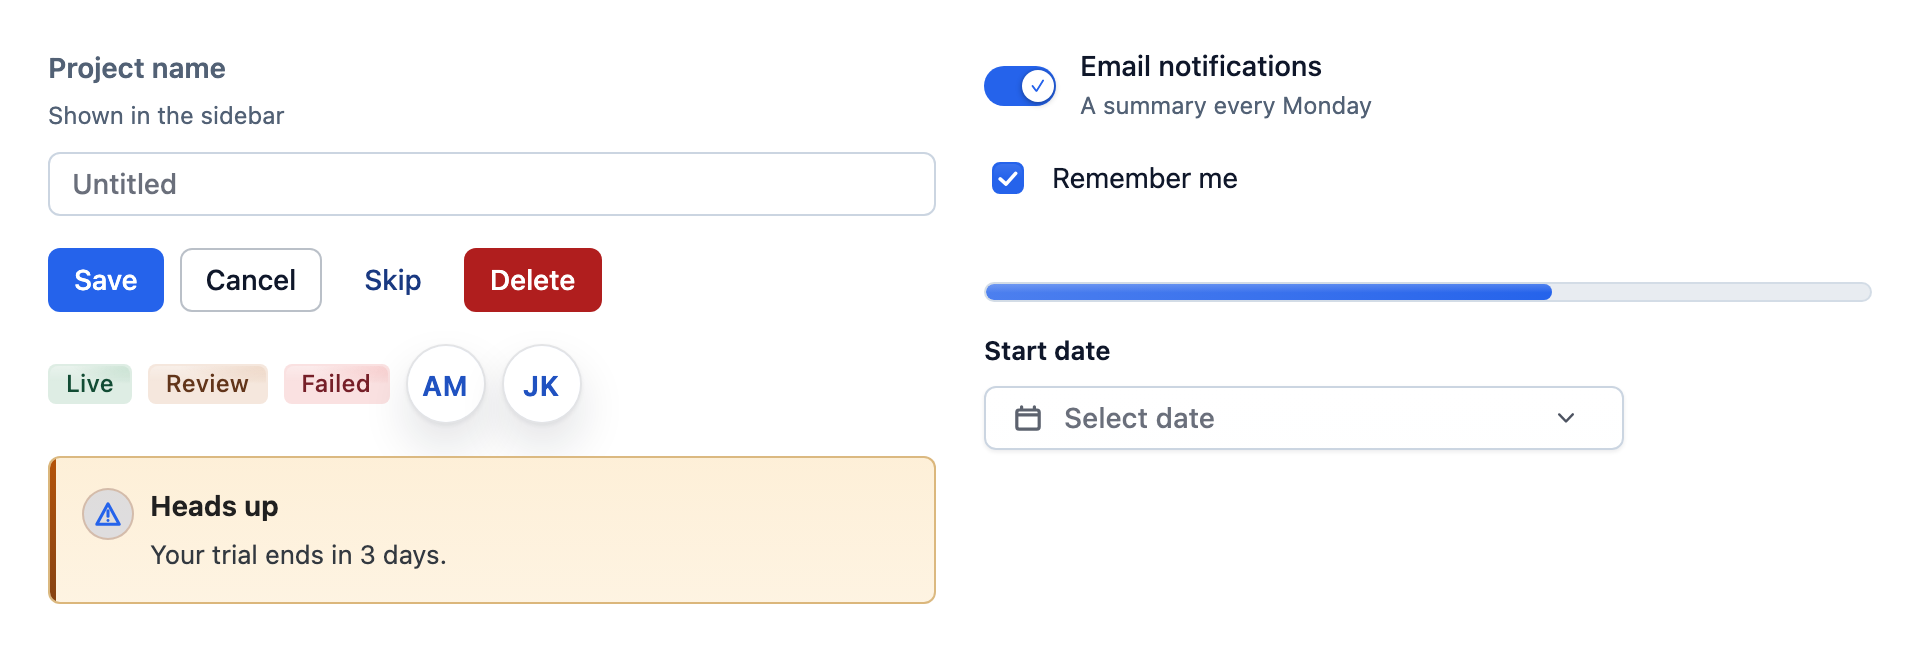
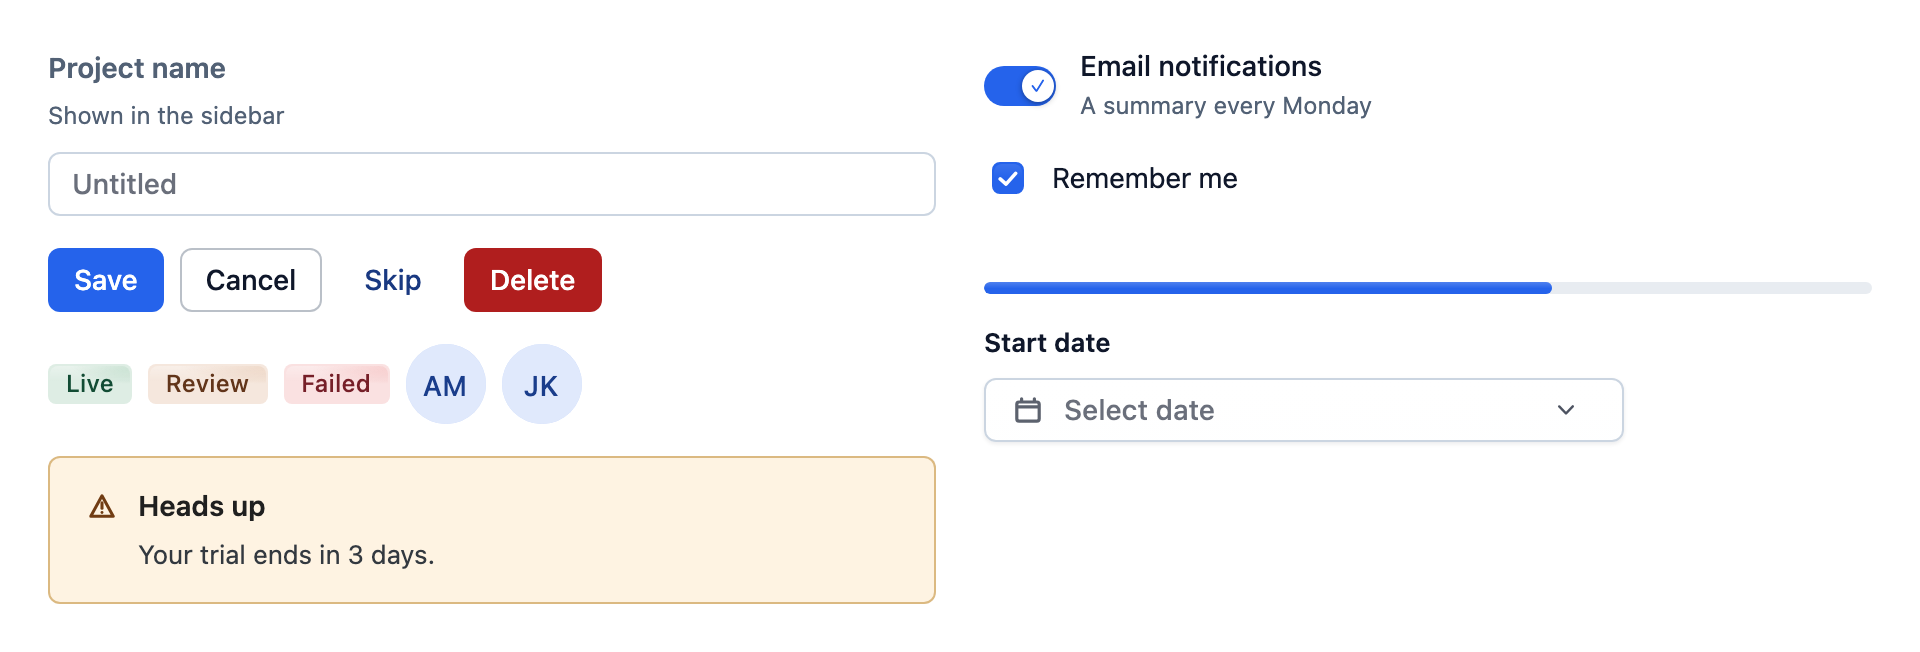
test(ui-core): guards for the flat look; README, changeset and regenerated pictures
27 style guards over 19 components (no glow shadows or lifting hovers in the defaults, plus the
contracts of the alert indicator, slider, calendar, pagination, toggle, pin input and the primary
call-to-action buttons). README: the default-look list now covers these components. The components
and data table pictures of ui-core and ui-react are regenerated (the pager lost its bar).

diff --git a/packages/ui-core/src/__tests__/flat-look.test.ts b/packages/ui-core/src/__tests__/flat-look.test.ts
@@ -1,0 +1,112 @@
+import { beforeEach, describe, expect, it } from 'vitest';
+import '../components/ui-alert';
+import '../components/ui-slider';
+import '../components/ui-progress';
+import '../components/ui-avatar';
+import '../components/ui-breadcrumb';
+import '../components/ui-pagination';
+import '../components/ui-calendar';
+import '../components/ui-toggle';
+import '../components/ui-toggle-group';
+import '../components/ui-stepper';
+import '../components/ui-pin-input';
+import '../components/ui-empty-state';
+import '../components/ui-collapsible';
+import '../components/ui-file-upload';
+import '../components/ui-meter';
+import '../components/ui-skeleton';
+import '../components/ui-toolbar';
+import '../components/ui-hover-card';
+import '../components/ui-drawer';
+
+function css(tag: string): string {
+  const el = document.createElement(tag);
+  document.body.append(el);
+  return (el.shadowRoot?.querySelector('style') as HTMLStyleElement | null)?.textContent || '';
+}
+
+const FLAT = [
+  'ui-alert',
+  'ui-slider',
+  'ui-progress',
+  'ui-avatar',
+  'ui-breadcrumb',
+  'ui-pagination',
+  'ui-calendar',
+  'ui-toggle',
+  'ui-toggle-group',
+  'ui-stepper',
+  'ui-pin-input',
+  'ui-empty-state',
+  'ui-collapsible',
+  'ui-file-upload',
+  'ui-meter',
+  'ui-skeleton',
+  'ui-toolbar',
+  'ui-hover-card',
+  'ui-drawer'
+];
+
+describe('flat look (step 5)', () => {
+  beforeEach(() => {
+    document.body.innerHTML = '';
+  });
+
+  it.each(FLAT)('%s has no glow shadow and no card-lifting hover in its defaults', (tag) => {
+    const style = css(tag);
+    // the old heavy shadows were "0 12px 24px" / "0 18px 36px" style multi-layer glows
+    expect(style, tag).not.toMatch(/box-shadow:[^;]*0 (1[0-9]|2[0-9]|3[0-9]) ?px (2[0-9]|3[0-9]|4[0-9]|5[0-9]) ?px/);
+    expect(style, tag).not.toMatch(/transform: translateY\(-[12]px\)/);
+  });
+
+  it('alert: a tone-coloured hairline and no leading bar unless indicator="line"', () => {
+    const style = css('ui-alert');
+    expect(style).toContain('color-mix(in srgb, var(--ui-alert-accent) 28%, transparent)');
+    expect(style).toContain(':host(:not([indicator="line"])) .alert::before');
+    expect(style).not.toContain('linear-gradient(180deg, var(--ui-alert-accent)');
+  });
+
+  it('slider: no box around the control and no pulsing end indicator', () => {
+    const style = css('ui-slider');
+    expect(style).toMatch(/\.shell \{[^}]*border: 0;/);
+    expect(style).toMatch(/\.track-indicator \{\s*display: none;/);
+  });
+
+  it('calendar: a day is not a bordered tile, the selected day is a solid accent', () => {
+    const style = css('ui-calendar');
+    expect(style).toMatch(/\.day \{\s*border: 1px solid transparent;/);
+    expect(style).toContain('--ui-calendar-selected-bg: var(--ui-calendar-accent);');
+  });
+
+  it('pagination: controls follow the control scale, with no bar around them', () => {
+    const style = css('ui-pagination');
+    expect(style).toContain('--ui-pagination-h: var(--ui-control-height-2, 32px);');
+    expect(style).toMatch(/\.pagination \{[^}]*border: 0;/);
+  });
+
+  it('toggle: no default dot glyph, a soft accent when pressed', () => {
+    document.body.innerHTML = '<ui-toggle>Bold</ui-toggle>';
+    const toggle = document.querySelector('ui-toggle') as HTMLElement;
+    const glyphs = Array.from(toggle.shadowRoot!.querySelectorAll('.icon')).map((el) => el.textContent);
+    expect(glyphs).toEqual(['', '']);
+    expect(css('ui-toggle')).toContain('--ui-toggle-pressed-bg');
+  });
+
+  it('toggle with icon attributes still draws them', () => {
+    document.body.innerHTML = '<ui-toggle icon-on="B" icon-off="b">Bold</ui-toggle>';
+    const toggle = document.querySelector('ui-toggle') as HTMLElement;
+    const glyphs = Array.from(toggle.shadowRoot!.querySelectorAll('.icon')).map((el) => el.textContent);
+    expect(glyphs).toEqual(['b', 'B']);
+  });
+
+  it('call-to-action buttons use the primary fill and its text colour, not a tint of the accent', () => {
+    expect(css('ui-empty-state')).toContain('--ui-empty-action-color: var(--ui-color-foreground-on-primary, #ffffff);');
+    expect(css('ui-file-upload')).toMatch(/\.cta \{[^}]*color: var\(--ui-color-foreground-on-primary, #ffffff\);/s);
+  });
+
+  it('pin input slots are one control tall, with a placeholder that reads', () => {
+    const style = css('ui-pin-input');
+    expect(style).toContain('--ui-pin-slot-height: var(--ui-control-height-3, 40px);');
+    expect(style).toContain('var(--ui-color-placeholder');
+  });
+});

diff --git a/.changeset/flat-look-rest.md b/.changeset/flat-look-rest.md
@@ -1,0 +1,15 @@
+---
+"@editora/ui-core": minor
+---
+
+The flat, Radix Themes style look, for the rest of the everyday components. Visible change, no API change.
+
+- **Alert:** a flat tint with a hairline in the tone colour, a plain icon (no circle), no shadow. The coloured bar on the leading edge is now opt-in: `indicator="line"` (it used to be on unless `indicator="none"`). Theme keys `alert.border`, `alert.shadow` and `alert.icon-size` are no longer pinned by the built-in themes.
+- **Slider, progress, meter, skeleton:** no box around the slider, a 4px track with a white thumb and no pulsing end dot; progress and meter are 6px with a solid fill (progress sizes xs/sm/lg are 3/4/8px); skeletons use the neutral fill colour.
+- **Avatar, breadcrumb, pagination:** a soft tinted avatar without border or shadow; the current breadcrumb is bold with no pill and no hover lift; pagination loses its bordered bar and uses 24/32/40px buttons from the control scale with a solid accent for the current page. The built-in themes no longer pin the avatar's border, shadow and background.
+- **Calendar:** days are plain cells (the bordered tile per day is gone), the selected day is a solid accent, outside days are the muted colour at full strength (4.5:1).
+- **Accordion, collapsible, stepper:** flat surfaces with dividers; the accent bar on an open accordion item is opt-in (`indicator="line"`); stepper steps have no card, a solid circle marks the current step.
+- **Toggle, toggle group, toolbar:** a pressed toggle is a soft accent with dark text (was a solid fill); `ui-toggle` no longer draws a default dot glyph (pass `icon-on` / `icon-off`); the toggle group and toolbar lose their padded box.
+- **Pin input, empty state, file upload:** 40px pin slots with a readable placeholder; the default action of the empty state and the "Choose files" button are primary buttons (the tinted version was unreadable on the amber accent).
+- **Hover card, drawer:** the flat overlay surface (solid panel colour, hairline, theme shadow).
+- Invalid-style glows on avatar and file-upload states are rings, not blurred shadows.

diff --git a/packages/ui-core/README.md b/packages/ui-core/README.md
@@ -597,6 +597,17 @@ Light and dark, with the default amber accent (`radius` is 6px):
   `variant="segmented"`; `soft`, `outline`, `solid`, `cards` and `indicator` keep working.
 - **Cards** have a single hairline border and no shadow. **Badges** are soft tinted labels without a border
   (`variant="solid"` for a filled one).
+- **Alerts** are a tinted fill with a hairline in the tone colour and a plain icon; the coloured bar on the leading edge
+  is opt-in (`indicator="line"`). **Slider**, **progress** and **meter** are flat tracks (4–6px) with a solid fill; the
+  slider thumb is a white circle.
+- **Avatars** are a soft tint with initials. **Breadcrumbs** show the current page in bold, with no pill.
+  **Pagination** is a row of 32px buttons with a solid accent for the current page, no bar around them.
+- **Calendar** days are plain cells; the selected day is solid accent, the range a soft tint.
+- **Accordion** and **collapsible** are one hairline box with dividers; the accent bar on an open item is opt-in
+  (`indicator="line"` on the accordion). **Stepper** steps have no card: the current one is a solid circle.
+- **Toggle** and **toggle group** are outlined buttons that turn a soft accent when pressed (no dot glyph unless you pass
+  `icon-on` / `icon-off`). **Toolbar**, **hover card** and **drawer** take the same flat surface as popovers.
+- **Pin input** slots are 40px (one control tall), **empty state** and **file upload** use a primary button.
 
 ### Control sizes
 
